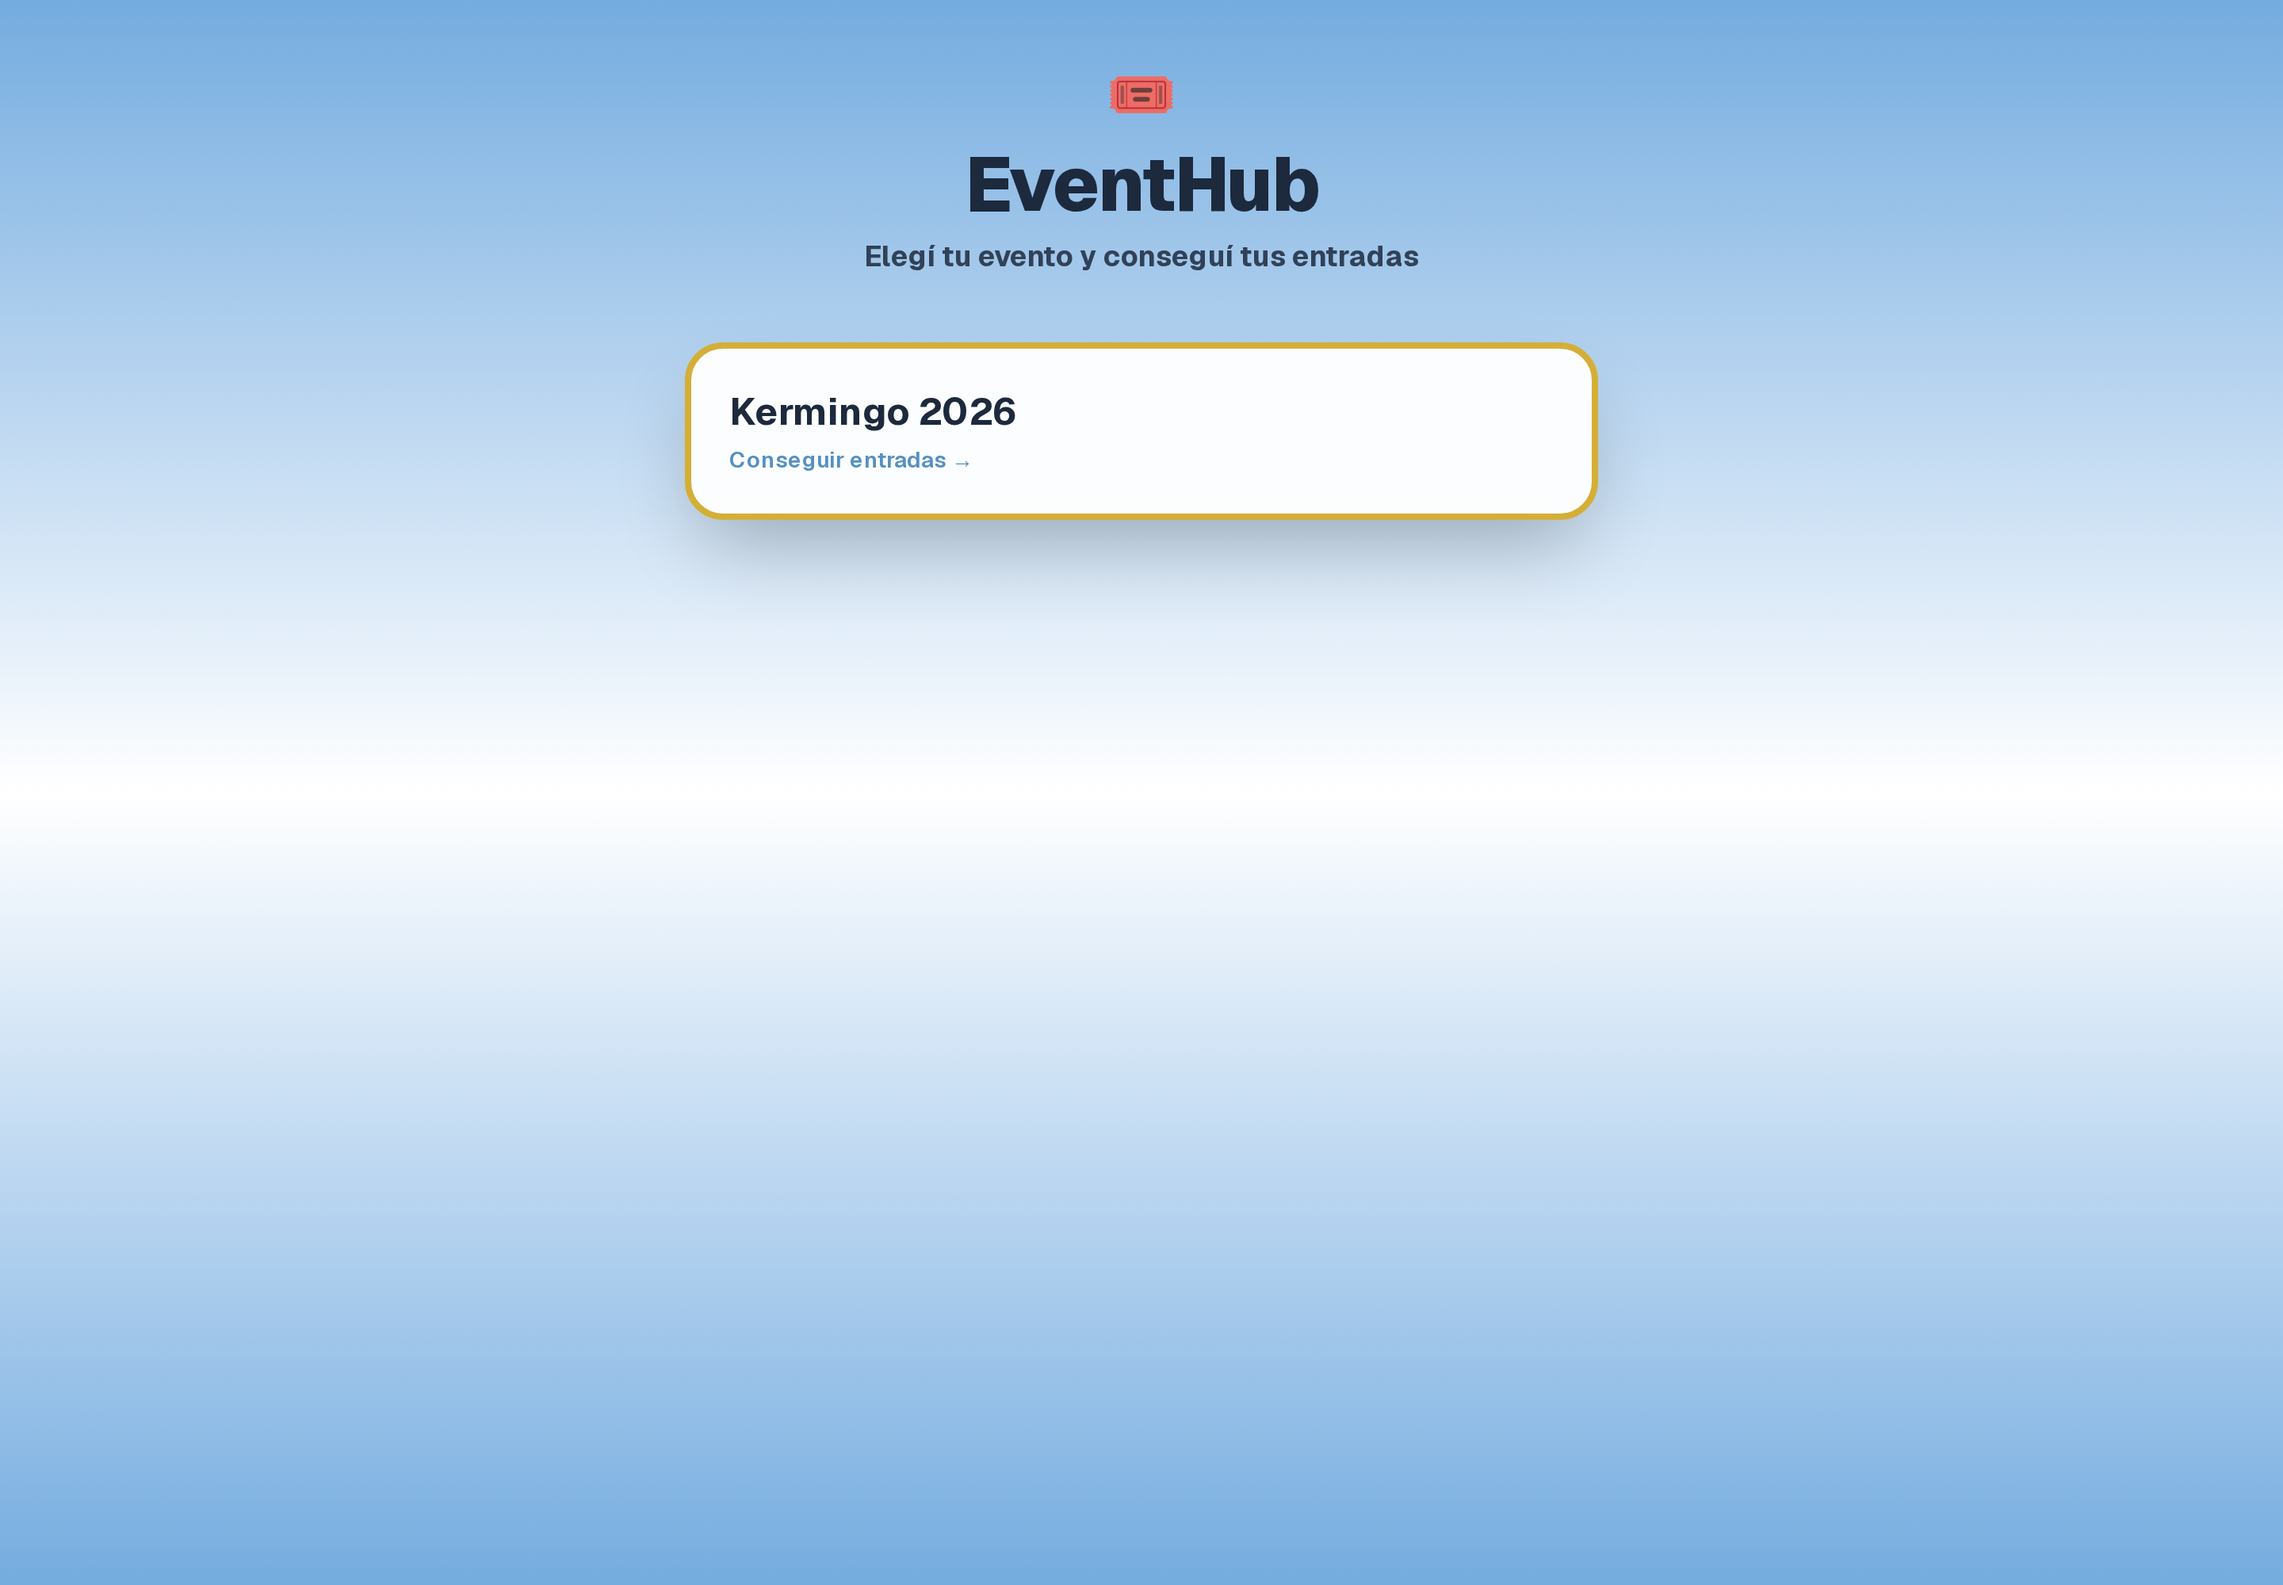
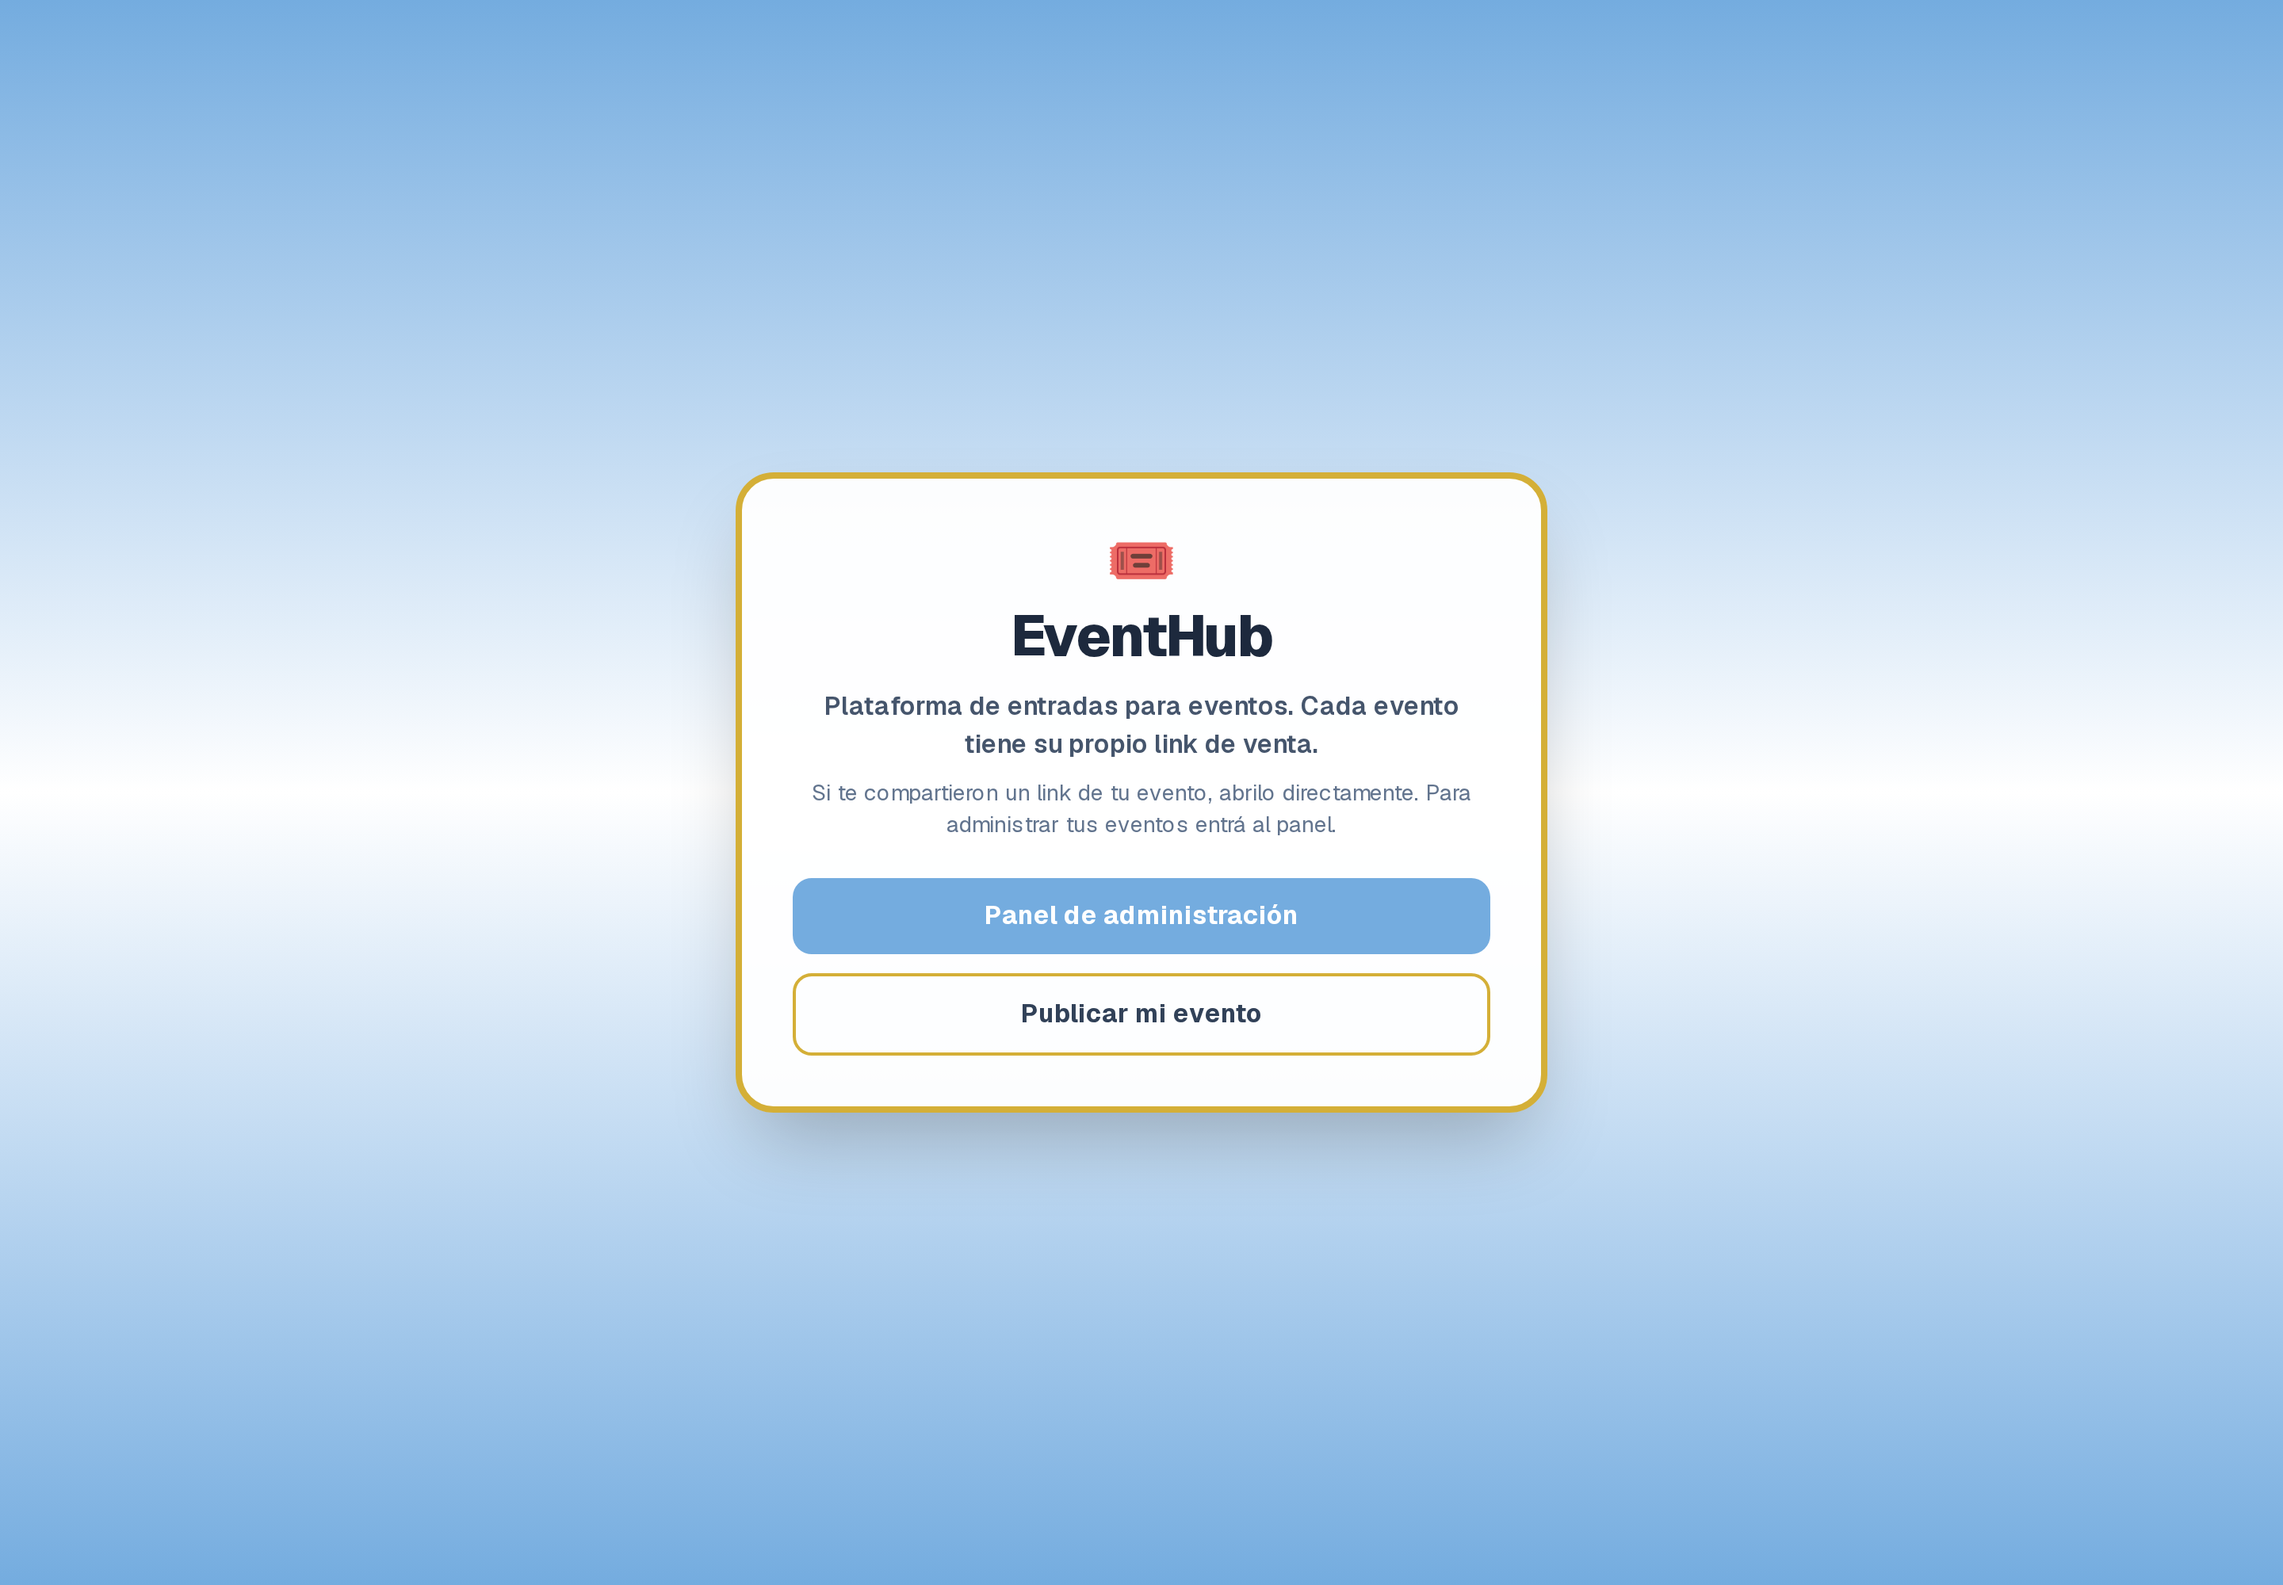
docs(screenshots): capturas regeneradas con el evento demo (sin Kermingo) + seccion de emails en el README

Changed region(s): [[0.2812, 0.217, 0.7188, 0.744], [0.375, 0.031, 0.625, 0.186]]

diff --git a/README.md b/README.md
@@ -46,6 +46,10 @@ Rutas legacy (`/admin`, `/escaner`) redirigen 308 a `/`: **no existe un evento p
 
 ---
 
+## 📧 Emails (SMTP y entregabilidad)
+
+Si los mails no llegan o caen en spam: `docs/email-deliverability.md` (diagnóstico en 3 pasos con `/api/admin/test-email`, SPF/DKIM/DMARC y por qué el SMTP de una cuenta personal no sirve para producción).
+
 ## 🖼 Capturas
 
 Capturas reales de una instancia en producción (generadas con `scripts/` del repo +
